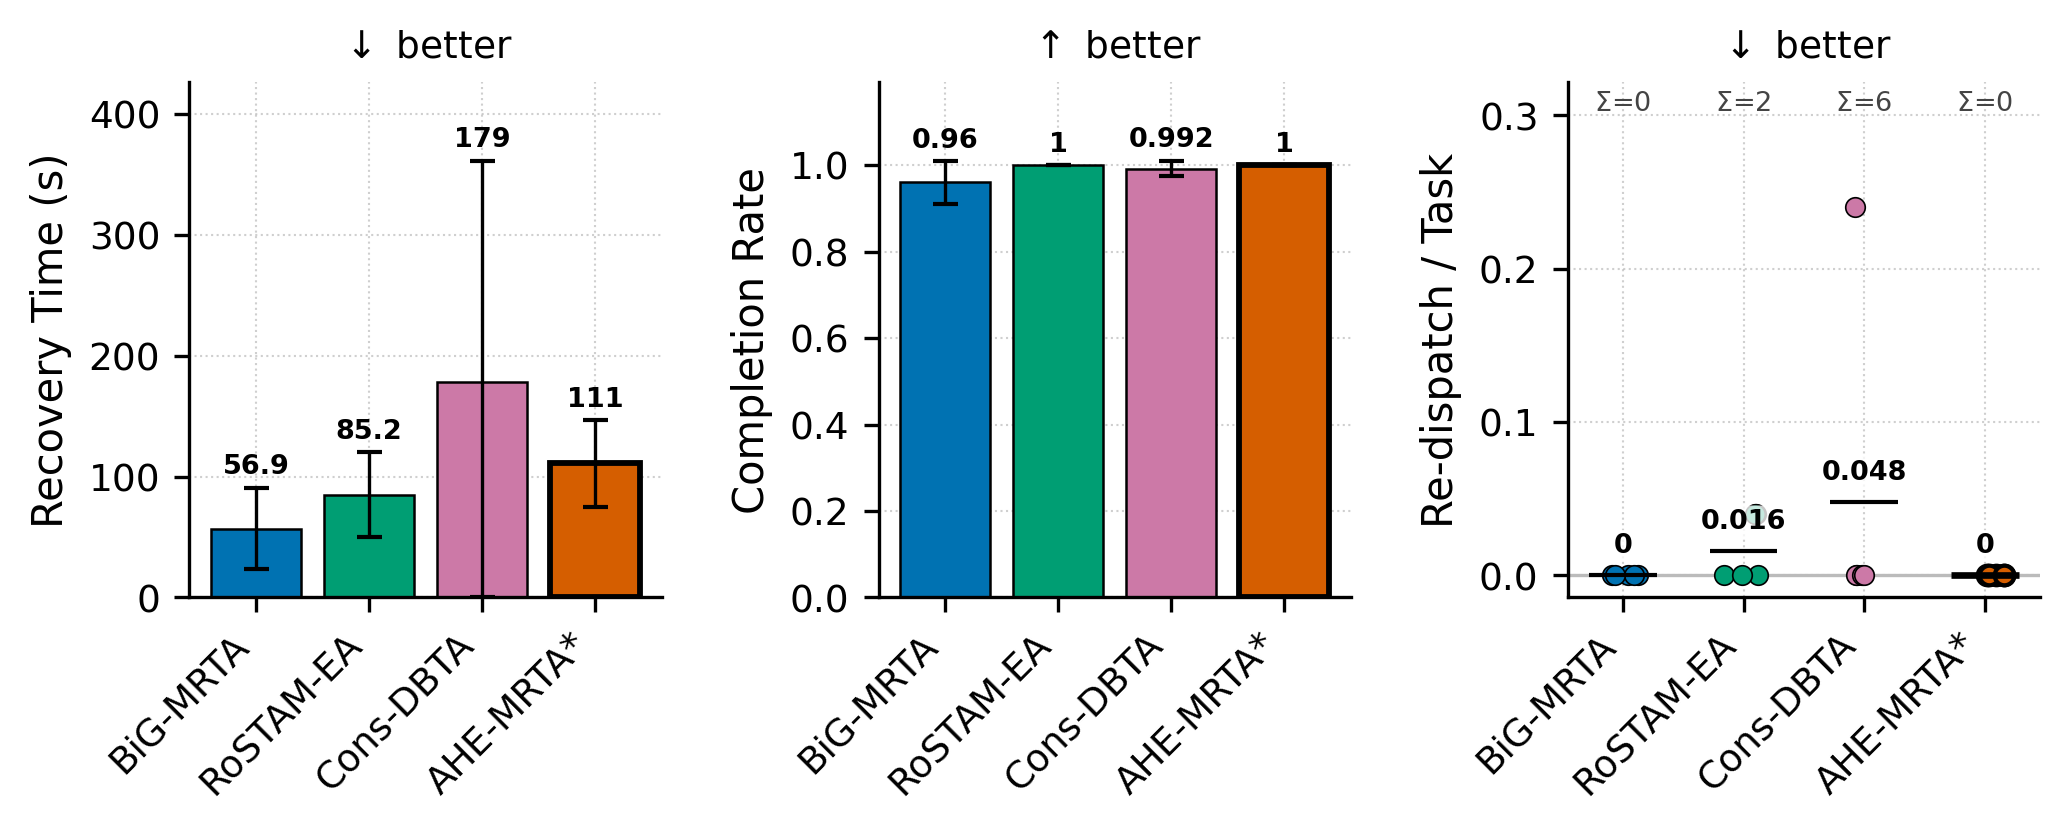
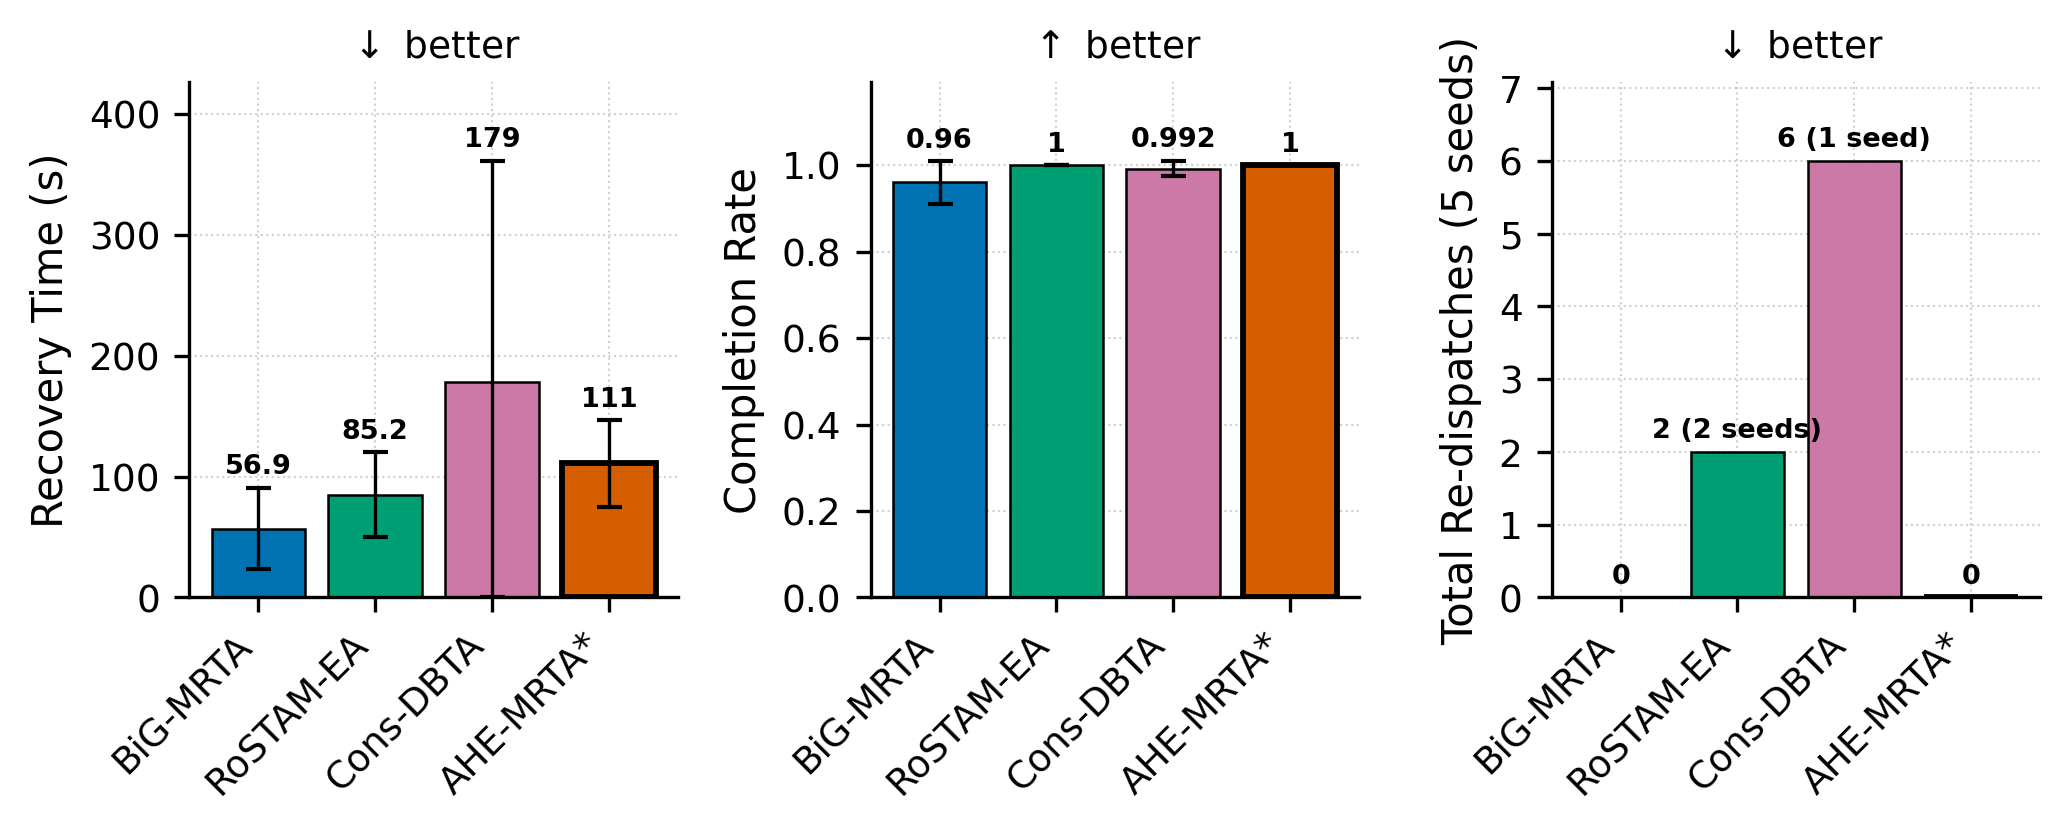
Paper: Fig 10c as integer re-dispatch event totals (user pick, EN+TR)
Replaces the per-seed strip panel (previous commit) after review: the
right panel now shows the raw number of re-dispatch events over the five
seeds as integer bars annotated with the contributing seed count
(0 / 2 in 2 seeds / 6 in 1 seed / 0). This keeps the three panels
visually consistent as bars while still exposing that Consensus-DBTA's
nonzero mean came from a single seed. _strip_panel is removed in favour
of _event_count_panel; captions rewritten in both languages. PDFs
recompiled clean (EN 22 pp, TR 23 pp).

diff --git a/scripts/plot_results.py b/scripts/plot_results.py
@@ -32,7 +32,7 @@ import matplotlib
 matplotlib.use("Agg")
 import matplotlib.pyplot as plt
 import matplotlib.patches as mpatches
-import matplotlib.transforms as mtransforms
+from matplotlib.ticker import MaxNLocator
 from pathlib import Path
 from typing import Optional
 
@@ -172,51 +172,42 @@ def _bar_panel(ax, df, methods, metric, ylabel, higher_better: bool = True,
     return bars
 
 
-def _strip_panel(ax, df, methods, metric, ylabel, higher_better: bool = True,
-                 count_metric: Optional[str] = None):
-    """Per-run strip plot with a mean tick; for rare / near-zero event metrics.
+def _event_count_panel(ax, df, methods, metric, ylabel,
+                       higher_better: bool = False):
+    """Integer event-total bars for rare discrete events; proposed emphasised.
 
-    A mean±std bar misleads here on three counts: most runs are exactly
-    zero (invisible bars), a single seed can carry the whole mean, and the
-    std whisker dips below zero although the metric cannot. Plotting every
-    run makes the sparsity itself the message. count_metric, if given,
-    annotates each method with its raw event total (Σ) across the runs.
+    A mean±std rate bar misleads for a metric like re-dispatches: most
+    runs are exactly zero (invisible bars), a single seed can carry the
+    whole mean, and the std whisker dips below zero although the metric
+    cannot. The raw event total, annotated with how many seeds contribute
+    it, states the finding directly.
     """
     valid = [m for m in methods if m in df["strategy"].unique()]
     colors = [METHOD_PALETTE.get(m, "#999999") for m in valid]
-    data = [df[df["strategy"] == m][metric].dropna().values for m in valid]
+    totals, seeds_hit, n_runs = [], [], 0
+    for m in valid:
+        vals = df[df["strategy"] == m][metric].dropna()
+        totals.append(int(vals.sum()))
+        seeds_hit.append(int((vals > 0).sum()))
+        n_runs = max(n_runs, len(vals))
 
-    ax.axhline(0.0, color="#bbbbbb", linewidth=0.8, zorder=1)
-    rng = np.random.default_rng(7)
-    for i, (m, vals, c) in enumerate(zip(valid, data, colors)):
-        jitter = rng.uniform(-0.16, 0.16, size=len(vals))
-        ax.scatter(i + jitter, vals, s=22, color=c, edgecolor="black",
-                   linewidth=1.0 if m == PROPOSED else 0.4, zorder=3)
-        mn = float(np.mean(vals)) if len(vals) else 0.0
-        ax.hlines(mn, i - 0.28, i + 0.28, color="black",
-                  linewidth=1.6 if m == PROPOSED else 1.0, zorder=4)
-        ax.annotate(f"{mn:.3g}", xy=(i, mn), xytext=(0, 4),
+    x = np.arange(len(valid))
+    edge_w = [1.4 if m == PROPOSED else 0.6 for m in valid]
+    bars = ax.bar(x, totals, color=colors, edgecolor="black")
+    for b, w in zip(bars, edge_w):
+        b.set_linewidth(w)
+    for i, (tot, hit) in enumerate(zip(totals, seeds_hit)):
+        note = str(tot) if tot == 0 else \
+            f"{tot} ({hit} seed{'s' if hit > 1 else ''})"
+        ax.annotate(note, xy=(i, tot), xytext=(0, 2),
                     textcoords="offset points", ha="center", va="bottom",
-                    fontsize=6.5, fontweight="bold", zorder=5,
-                    bbox=dict(boxstyle="round,pad=0.1", fc="white",
-                              ec="none", alpha=0.78))
-
-    if count_metric is not None and count_metric in df.columns:
-        trans = mtransforms.blended_transform_factory(ax.transData,
-                                                      ax.transAxes)
-        for i, m in enumerate(valid):
-            tot = df[df["strategy"] == m][count_metric].dropna().sum()
-            ax.text(i, 0.985, f"$\\Sigma$={int(tot)}", transform=trans,
-                    ha="center", va="top", fontsize=6.5, color="#444444")
-
-    ymax = max((float(v.max()) for v in data if len(v)), default=0.0)
-    if ymax <= 0:
-        ymax = 1.0
-    ax.set_ylim(-0.06 * ymax, 1.34 * ymax)
-    ax.set_xticks(range(len(valid)))
+                    fontsize=6.5, fontweight="bold")
+    ax.margins(y=0.18)
+    ax.yaxis.set_major_locator(MaxNLocator(integer=True))
+    ax.set_xticks(x)
     ax.set_xticklabels([METHOD_LABELS.get(m, m) for m in valid],
                        rotation=45, ha="right")
-    ax.set_ylabel(ylabel)
+    ax.set_ylabel(f"{ylabel} ({n_runs} seeds)")
     arrow = "$\\uparrow$" if higher_better else "$\\downarrow$"
     ax.set_title(f"{arrow} better", fontsize=9)
 
@@ -374,12 +365,12 @@ def plot_failure_recovery(df_summary: Optional[pd.DataFrame],
                        "Completion Rate", True)
         # Execution preemptions are 0 for every method at this scale (no method
         # interrupts an in-flight task), so that panel cannot discriminate;
-        # show the corrected re-dispatch rate instead (Sec. discussion).
-        # Re-dispatch is a rare discrete event (17 of 20 runs are exactly
-        # zero), so it gets the per-run strip panel, not a mean±std bar.
-        _strip_panel(axes[2], rf, methods, "redispatch_per_task",
-                     "Re-dispatch / Task", False,
-                     count_metric="task_redispatch")
+        # show corrected re-dispatches instead (Sec. discussion). Re-dispatch
+        # is a rare discrete event (17 of 20 runs are exactly zero; one seed
+        # carries all of Consensus-DBTA's events), so report raw event totals
+        # rather than a mean±std rate bar.
+        _event_count_panel(axes[2], rf, methods, "task_redispatch",
+                           "Total Re-dispatches")
 
     fig.tight_layout()
     out_path = out_dir / "failure_recovery.png"

diff --git a/paper/main_tr.tex b/paper/main_tr.tex
@@ -1275,17 +1275,16 @@ iki ölçekte gerçek-zaman bütçesinin içinde.
   \caption{Birincil 5-robot / 25-görev ölçeğinde \textit{robot\_failure} altında
   arıza-toparlanma davranışı ($n{=}5$ tohum): toparlanma süresi ile
   tamamlama oranı (ortalama $\pm$ std çubukları; bıyıklar sıfırda
-  kırpılmıştır) ve yeniden-gönderim oranı --- 20 koşunun 17'si tam sıfır
-  olduğundan ve ortalama çubuğunu tek bir tohum taşıyacağından bu panel
-  tohum-başına noktalar, ortalama çizgisi ve yöntem başına toplam olay
-  sayısı ($\Sigma$) ile gösterilmiştir (yürütme kesintileri tüm
-  yöntemlerde sıfır olduğundan gösterilmedi). Toparlanma süreleri
-  yöntemler arasında istatistiksel olarak ayırt edilemez ($p{>}0.3$);
-  yeniden-gönderim yalnız iki temelde görülür (RoSTAM-EA: iki tohumda
-  birer, Cons-DBTA: tek tohumda altı) ve AHE-MRTA, karşılaştırılabilir
-  toparlanma süresini bir ekosistem güncelleme çevrimi içinde
-  (${\leq}2$~s) yetim-kurtarma paradigmasına geçerek reaktif yöntemlerin
-  en yüksek tamamlama oranına çevirir.}
+  kırpılmıştır) ve beş tohumdaki toplam yeniden-gönderim olay sayısı
+  (katkı veren tohum sayısıyla birlikte). Sağ panelde ortalama-oran
+  çubuğu yanıltıcı olurdu: 20 koşunun 17'sinde yeniden-gönderim tam
+  sıfırdır ve Consensus-DBTA'nın altı olayının tümü tek bir tohumdadır
+  (yürütme kesintileri tüm yöntemlerde sıfır olduğundan gösterilmedi).
+  Toparlanma süreleri yöntemler arasında istatistiksel olarak ayırt
+  edilemez ($p{>}0.3$); yeniden-gönderim yalnız iki temelde görülür ve
+  AHE-MRTA, karşılaştırılabilir toparlanma süresini bir ekosistem
+  güncelleme çevrimi içinde (${\leq}2$~s) yetim-kurtarma paradigmasına
+  geçerek reaktif yöntemlerin en yüksek tamamlama oranına çevirir.}
   \label{fig:recovery}
 \end{figure}
 

diff --git a/paper/main.tex b/paper/main.tex
@@ -1235,16 +1235,16 @@ scales.
   \caption{Failure-recovery behaviour under \textit{robot\_failure} at
   the primary 5-robot / 25-task scale ($n{=}5$ seeds): recovery time and
   completion rate (mean\,$\pm$\,std bars, whiskers clipped at zero) and
-  re-dispatch rate, shown as per-seed points with a mean tick and the
-  total event count ($\Sigma$) per method---17 of the 20 runs are exactly
-  zero, so a mean bar would be carried by a single seed (execution
-  preemptions are zero for every method and are omitted). Recovery times
-  are statistically indistinguishable across methods ($p{>}0.3$);
-  re-dispatches arise only in two baselines (RoSTAM-EA: one each in two
-  seeds; Cons-DBTA: six in a single seed), and AHE-MRTA converts its
-  comparable recovery time into the highest completion rate of the
-  reactive methods by escalating to the orphan-rescue paradigm within
-  one ecosystem update cycle (${\leq}2$~s).}
+  the total number of re-dispatch events over the five seeds, annotated
+  with the number of seeds contributing them. A mean-rate bar would
+  mislead in the right panel: 17 of the 20 runs have exactly zero
+  re-dispatches and all six Consensus-DBTA events fall in a single seed
+  (execution preemptions are zero for every method and are omitted).
+  Recovery times are statistically indistinguishable across methods
+  ($p{>}0.3$); re-dispatches arise only in two baselines, and AHE-MRTA
+  converts its comparable recovery time into the highest completion rate
+  of the reactive methods by escalating to the orphan-rescue paradigm
+  within one ecosystem update cycle (${\leq}2$~s).}
   \label{fig:recovery}
 \end{figure}
 